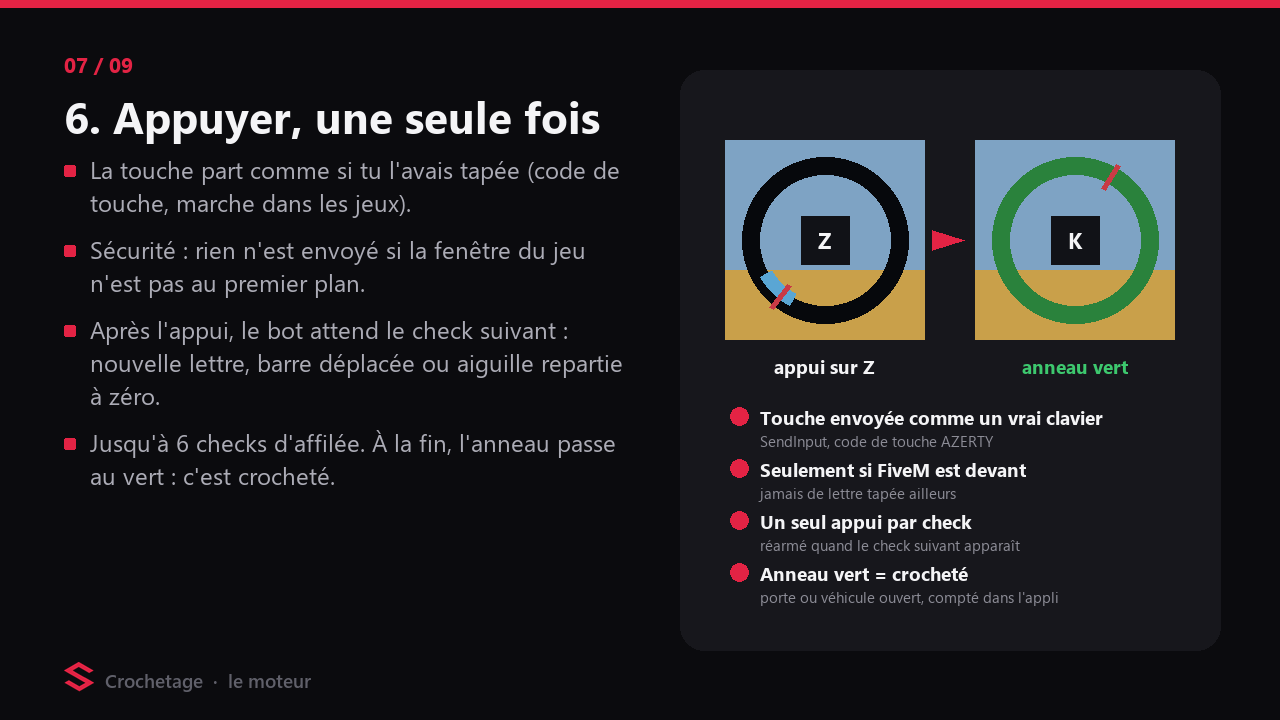
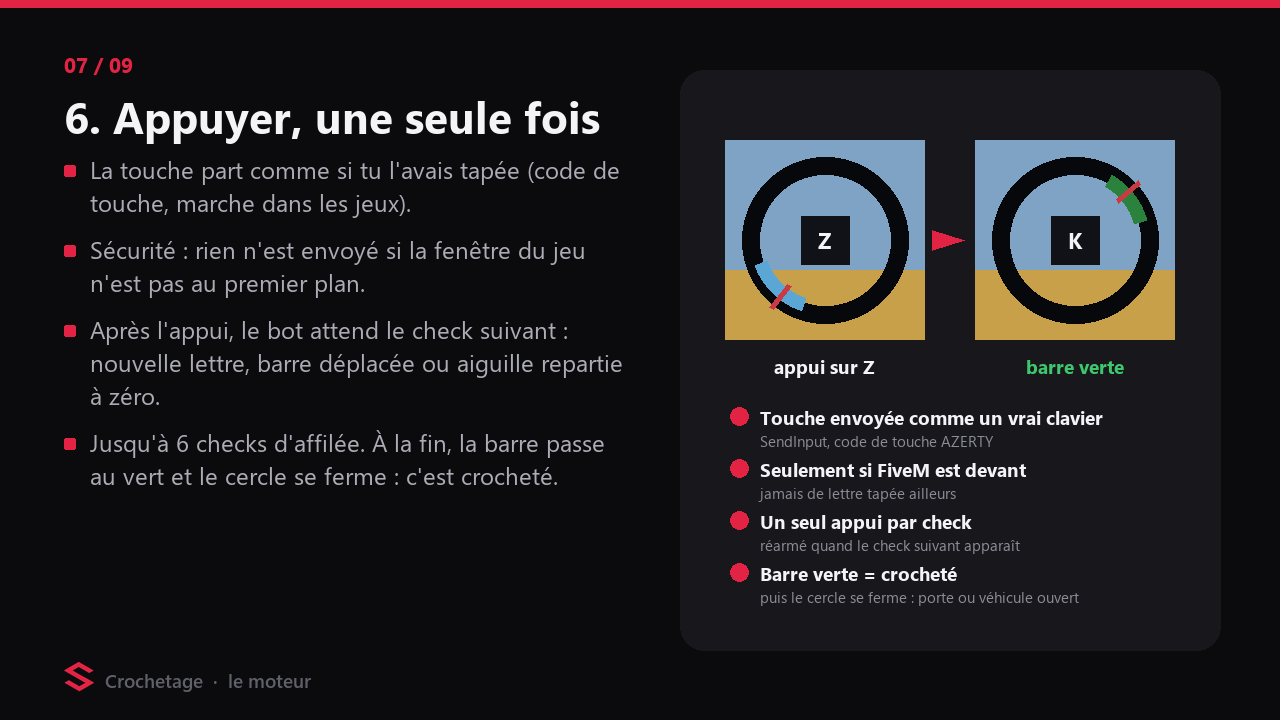
Baylife uniquement, overlay en jeu, barre verte en fin de cycle
- Le bot n'appuie que si FiveM est devant et connecté à Baylife
  (last_server_url de FiveM, réglage serveur_cible).
- Overlay en haut de l'écran quand le bot est actif en jeu : état du
  crochetage, résultat, serveur, compteurs. Jamais de focus, clics
  traversants.
- Fin de cycle comme en jeu : la barre du dernier check passe au vert
  puis le cercle se ferme.
- Nouveau check repéré même après une image sans aiguille (même lettre et
  même barre deux fois de suite).
- Simulation : option --meme-check pour ce cas piège.

diff --git a/autotouche.py b/autotouche.py
@@ -4,6 +4,7 @@ import ctypes.wintypes as wt
 import json
 import os
 import platform
+import re
 import sys
 import threading
 import time
@@ -48,9 +49,11 @@ DEFAULT_CONFIG = {
     "anneau": [0.55, 1.05],
     "anneau_auto": True,
     "fenetre_cible": None,
+    "serveur_cible": "bay.life",
     "apprentissage_auto": True,
     "journal": True,
     "captures_echec": True,
+    "overlay": True,
     "bleu_hsv": [[90, 100, 100], [130, 255, 255]],
     "rouge_hsv": [[0, 100, 90], [10, 255, 255], [168, 100, 90], [179, 255, 255]],
     "vert_hsv": [[45, 90, 90], [85, 255, 255]],
@@ -118,6 +121,31 @@ user32.GetAsyncKeyState.argtypes = (ctypes.c_int,)
 user32.GetAsyncKeyState.restype = ctypes.c_short
 user32.GetForegroundWindow.restype = wt.HWND
 user32.GetWindowTextW.argtypes = (wt.HWND, wt.LPWSTR, ctypes.c_int)
+
+
+_SERVEUR = {"t": 0.0, "url": None}
+
+
+def serveur_fivem(max_age=2.0):
+    maintenant = time.monotonic()
+    if maintenant - _SERVEUR["t"] < max_age:
+        return _SERVEUR["url"]
+    _SERVEUR["t"] = maintenant
+    chemin = os.path.join(os.environ.get("LOCALAPPDATA", ""), "FiveM", "FiveM.app", "data", "cache", "crashometry")
+    try:
+        with open(chemin, "rb") as f:
+            urls = re.findall(rb"last_server_url([!-~]+)", f.read())
+        _SERVEUR["url"] = urls[-1].decode("ascii", "replace") if urls else None
+    except OSError:
+        _SERVEUR["url"] = None
+    return _SERVEUR["url"]
+
+
+def serveur_autorise(cible):
+    if not cible:
+        return True, None
+    url = serveur_fivem()
+    return bool(url and cible.lower() in url.lower()), url
 
 
 def titre_premier_plan():
@@ -687,7 +715,6 @@ class Decideur:
             return False
 
         if barre is None:
-            self.prev = None
             return False
         centre, debut, fin, rel = barre
 
@@ -697,8 +724,9 @@ class Decideur:
             self.prev, self.prev_t = rouge, now
         else:
             dv, dt = wrap(rouge - self.prev), now - self.prev_t
-            if abs(dv) > 60 or dt > 0.25:
-                saut = self.saut = abs(dv) > 60
+            ecart = wrap(dv - (self.vit or 0.0) * dt)
+            if abs(ecart) > 60 or dt > 0.25:
+                saut = self.saut = abs(ecart) > 60
                 self.prev, self.prev_t, self.vit = rouge, now, None
             elif abs(dv) >= 0.5 and dt > 0:
                 v = dv / dt
@@ -848,6 +876,7 @@ class Suivi:
         self.j, self.log = journal, log
         self.cycle = self.check = None
         self.n_cycle = 0
+        self.dernier_cycle = None
         self.t_vu = 0.0
         self.apres_vert = False
         self.fins = []
@@ -864,7 +893,7 @@ class Suivi:
         if vert:
             if self.cycle:
                 if self.check:
-                    self._fin_check(now, "réussi" if self.check["appui"] else "vert sans appui", "anneau vert")
+                    self._fin_check(now, "réussi" if self.check["appui"] else "vert sans appui", "barre verte")
                 self._fin_cycle(now, "crocheté")
             self.apres_vert = True
             return
@@ -969,6 +998,7 @@ class Suivi:
         self.stats["crochetages_ok" if resultat == "crocheté" else
                    "crochetages_rates" if resultat == "raté" else "cycles_abandonnes"] += 1
         duree = now - cy["t0"]
+        self.dernier_cycle = {"resultat": resultat, "nb_checks": len(cy["checks"]), "t": now}
         self.j.ev("cycle_fin", cycle=cy["n"], resultat=resultat, nb_checks=len(cy["checks"]),
                   checks=cy["checks"], duree_ms=round(duree * 1000, 1))
         if resultat == "crocheté":
@@ -1057,6 +1087,7 @@ class Moteur:
         self.cercle = False
         self.nb_appuis = self.nb_reussis = 0
         self.nb_crochetages = self.nb_rates = 0
+        self.jeu_devant, self.serveur_ok, self.serveur_url = False, True, None
         self.dernier = ""
         self.version_config = 0
         self.an = None
@@ -1179,6 +1210,8 @@ class Moteur:
             self.log(f"touche_fixe '{fixe}' inconnue")
             return 1
         cible = cfg.get("fenetre_cible")
+        serveur_cible = (cfg.get("serveur_cible") or "").strip() or None
+        t_etat = 0.0
         seuil = float(cfg["seuil"])
         appui_ms = float(cfg["appui_ms"])
         pause_s = float(cfg["pause_boucle_ms"]) / 1000.0
@@ -1207,6 +1240,11 @@ class Moteur:
             dernier, an_prec, inconnue = None, None, False
             try:
                 while not self.stop:
+                    if time.monotonic() - t_etat >= 0.5:
+                        t_etat = time.monotonic()
+                        titre_fg = titre_premier_plan() if cible else ""
+                        self.jeu_devant = not cible or cible.lower() in titre_fg.lower()
+                        self.serveur_ok, self.serveur_url = serveur_autorise(serveur_cible)
                     rc = self.raccourcis
                     if rc and self.touche_quitter and rac.appui(vk_quit):
                         self.log("Bye.")
@@ -1291,10 +1329,15 @@ class Moteur:
                     fins = self.suivi.fins if nouvelle else []
                     if decide:
                         titre = titre_premier_plan() if cible else ""
+                        serveur_ok, url = serveur_autorise(serveur_cible)
                         if cible and cible.lower() not in titre.lower():
                             self.log(f"{nom} PAS envoyé : fenêtre active « {titre[:40]} » (attendu « {cible} »)")
                             self.suivi.appui(maintenant, nom, score, False, self.dec.info,
                                              raison=f"fenêtre active « {titre[:60]} »")
+                        elif not serveur_ok:
+                            self.log(f"{nom} PAS envoyé : serveur « {url or 'inconnu'} » (attendu « {serveur_cible} »)")
+                            self.suivi.appui(maintenant, nom, score, False, self.dec.info,
+                                             raison=f"serveur « {url or 'inconnu'} »")
                         else:
                             appuyer(vkn, appui_ms)
                             self.nb_appuis += 1

diff --git a/simulation.py b/simulation.py
@@ -28,7 +28,7 @@ DIFFICULTES = {
     "dur": (18, 30, 540),
 }
 NB_CHECKS = {"vehicule": (4, 6), "porte": (3, 5)}
-BLEU, ROUGE, ANNEAU, VERT_ANNEAU = "#5aa6d4", "#c93a45", "#06080c", "#2A823C"
+BLEU, ROUGE, ANNEAU, VERT_BARRE = "#5aa6d4", "#c93a45", "#06080c", "#2A823C"
 VERT_TXT, ROUGE_TXT, ACCENT = "#3ddc84", "#ff5a5a", "#E32344"
 ORANGE = "#ff9f1a"
 
@@ -82,7 +82,7 @@ class Simulation:
         root.bind("<KeyPress>", self.clavier)
         root.protocol("WM_DELETE_WINDOW", self.quitter)
         self.j.ev("sim_debut", args=vars(args), ecran=[W, H], k=round(k, 4), centre=[self.cx, self.cy],
-                  couleurs={"bleu": BLEU, "rouge": ROUGE, "anneau": ANNEAU, "vert_anneau": VERT_ANNEAU},
+                  couleurs={"bleu": BLEU, "rouge": ROUGE, "anneau": ANNEAU, "vert_barre": VERT_BARRE},
                   difficultes=DIFFICULTES, version=at.VERSION)
 
     def _overlays_scene(self):
@@ -304,7 +304,15 @@ class Simulation:
         lo, hi = NB_CHECKS[nom]
         nb = self.args.nb or random.randint(lo, hi)
         self.n_cycle += 1
-        self.seq = [self.nouveau_check() for _ in range(nb)]
+        self.seq = []
+        for _ in range(nb):
+            if self.seq and random.random() < self.args.meme_check:
+                p = dict(self.seq[-1])
+                d = random.uniform(-1.5, 1.5)
+                p["debut"], p["fin"] = p["debut"] + d, p["fin"] + d
+                self.seq.append(p)
+            else:
+                self.seq.append(self.nouveau_check())
         self.i = 0
         self.cycle = {"n": self.n_cycle, "type": nom, "t0": time.perf_counter(), "titre": self.info["titre"]}
         self.message("")
@@ -360,9 +368,9 @@ class Simulation:
             self.lancer_check()
 
     def fin_cycle_reussi(self):
-        self.c.itemconfigure(self.anneau, outline=VERT_ANNEAU)
-        self.c.itemconfigure(self.barre, state="hidden")
-        self.etat, self.t_suivant = "vert", time.perf_counter() + 0.7
+        ck = self.ck
+        self.placer_barre(ck["debut"], ck["fin"], VERT_BARRE)
+        self.etat, self.t_suivant = "vert", time.perf_counter() + 0.25
         self.stats["cycles_ok"] += 1
         self.stats["cycles"] += 1
         quoi = "Véhicule déverrouillé" if self.type_scene == "vehicule" else "Porte déverrouillée"
@@ -486,8 +494,6 @@ class Simulation:
         elif maintenant >= self.t_suivant:
             if self.etat == "vert":
                 self.montrer(False)
-                self.c.itemconfigure(self.barre, state="normal")
-                self.c.itemconfigure(self.anneau, outline=ANNEAU)
                 self.message("")
                 self.etat, self.t_suivant = "attente", maintenant + self.args.pause_fin + random.uniform(0.2, 1.0)
                 self.maj_progression()
@@ -555,6 +561,7 @@ class Simulation:
         if nouveau:
             cfg["latence_ms"] = 8
         cfg["fenetre_cible"] = TITRE
+        cfg["serveur_cible"] = None
 
         self.c.itemconfigure(self.lettre, text="Z")
         self.placer_barre(200, 245)
@@ -660,6 +667,8 @@ def main(argv=None):
     p.add_argument("--vitesse", type=float, default=1.0, help="multiplie la vitesse de l'aiguille")
     p.add_argument("--taille", type=int, default=0, help="diamètre du cercle en pixels (défaut : comme le jeu)")
     p.add_argument("--lettres", default="AZERTYQSDFGHWXCVBNKLMPUIOJ", help="lettres possibles")
+    p.add_argument("--meme-check", type=float, default=0.0,
+                   help="probabilité qu'un check reprenne la lettre et la barre du précédent (cas piège)")
     p.add_argument("--nb", type=int, default=0, help="checks par cycle (0 = au hasard : 4-6 véhicule, 3-5 porte)")
     p.add_argument("--pause-fin", type=float, default=1.2, help="pause entre 2 crochetages (s)")
     p.add_argument("--duree", type=float, default=0, help="quitte tout seul après N secondes")

diff --git a/rapport.py b/rapport.py
@@ -340,7 +340,7 @@ def generer(stamp=None, jeu=False):
     if r["accord"]:
         L.append("## Le bot sait-il s'il a réussi ?")
         L.append("")
-        L.append("Le bot déduit l'issue tout seul (check suivant apparu, anneau vert, cercle disparu). "
+        L.append("Le bot déduit l'issue tout seul (check suivant apparu, barre verte, cercle disparu). "
                  "Comparaison avec la vérité, crochetage par crochetage :")
         L.append("")
         for k, v in r["accord"].most_common():

diff --git a/README.md b/README.md
@@ -12,7 +12,7 @@
 **Crochetage** joue tout seul le mini-jeu de crochetage de FiveM : portes, véhicules. Un cercle apparaît au
 milieu de l'écran avec une lettre au centre, une barre bleue et une aiguille rouge qui tourne. Dès que
 l'aiguille arrive dans la barre, l'appli appuie sur la bonne lettre. Elle enchaîne les checks (jusqu'à 6,
-barre de taille différente à chaque fois) jusqu'à ce que l'anneau passe au vert : c'est crocheté.
+barre de taille différente à chaque fois). À la fin, la barre passe au vert et le cercle se ferme : c'est crocheté.
 
 <table>
   <tr>
@@ -77,7 +77,7 @@ flowchart LR
     D -->|"pas encore"| A
     E --> F{"check suivant ?"}
     F -->|"oui : réussi"| A
-    F -->|"anneau vert"| G["🔓 Crocheté"]
+    F -->|"barre verte"| G["🔓 Crocheté"]
     F -->|"cercle disparu"| H["❌ Raté"]
 ```
 
@@ -146,28 +146,45 @@ image de plus.
   lettre, barre déplacée, aiguille repartie de zéro).
 
 ### 6. Savoir si c'est réussi
-Dans le jeu, l'anneau ne passe au vert (`#2A823C`) **qu'à la fin**, quand l'objet est crocheté. Le bot
-déduit donc l'issue tout seul :
+Dans le jeu, rien ne passe au vert entre deux checks. À la fin, seule la **barre du dernier check** passe au
+vert (`#2A823C`), puis le cercle se ferme aussitôt : l'objet est crocheté. Le bot déduit donc l'issue tout
+seul :
 
 | Ce qu'il voit après un appui | Ce qu'il en conclut |
 |---|---|
 | le check suivant apparaît | check réussi |
-| l'anneau passe au vert | crocheté (porte, véhicule ouvert) |
+| la barre passe au vert, puis le cercle se ferme | crocheté (porte, véhicule ouvert) |
 | le cercle disparaît sans vert | raté |
 
-Pendant que l'anneau est vert, le bot n'appuie jamais.
+Pendant que la barre est verte, le bot n'appuie jamais.
 
-### 7. Apprendre les lettres
+### 7. Seulement sur Baylife
+Le bot n'appuie que si **FiveM est au premier plan** et que tu es **connecté à Baylife**
+(`fivem://connect/9zj5ay`, `https://gta.bay.life`). FiveM note le dernier serveur rejoint dans
+`%LOCALAPPDATA%\FiveM\FiveM.app\data\cache\crashometry` (`last_server_url`) : le bot le relit avant chaque
+appui. Sur un autre serveur, il reste en veille et le note dans le journal (« PAS envoyé : serveur … »).
+Réglage `serveur_cible` dans `config.json` (`bay.life` par défaut, vide = tous les serveurs).
+
+### 8. L'overlay en jeu
+Dès que le bot est actif et que FiveM est devant, un bandeau s'affiche en haut de l'écran : prêt, crochetage
+en cours (numéro du check), crocheté ou raté, serveur, compteurs. Il ne prend jamais le focus, laisse passer
+les clics et se cache dès que le bot est en pause ou que tu quittes le jeu. Réglage `overlay` dans
+`config.json`.
+
+<p align="center"><img src="docs/overlay.png" alt="L'overlay en jeu" width="380"></p>
+
+### 9. Apprendre les lettres
 - **Tout seul** : sur une lettre inconnue, tu la joues toi-même. Si le check suivant apparaît (ou si
-  l'anneau passe au vert), le bot enregistre l'image comme modèle.
+  la barre passe au vert), le bot enregistre l'image comme modèle.
 - Ou **F8** puis la lettre, ou bien en tapant la lettre dans l'appli (« à nommer »).
 
 ### Résultats des tests
 | Test | Résultat |
 |---|---|
-| Simulation de vol de véhicule et de porte (trafic, gyrophares, pluie), 4 min | **47 / 47** crochetages, **221 / 221** checks, 0 appui en trop |
+| Simulation de vol de véhicule et de porte (trafic, gyrophares, pluie), 4 min | **51 / 51** crochetages, **240 / 240** checks, 0 appui en trop |
+| Cas piège : même lettre et même barre deux fois de suite | **45 / 45** checks |
 | Où tombe l'appui dans la barre (cible 35 %) | **34 % ± 3 %** |
-| Le bot sait-il s'il a réussi ? | d'accord avec la vérité sur **47 / 47** crochetages |
+| Le bot sait-il s'il a réussi ? | d'accord avec la vérité sur **51 / 51** crochetages |
 | Détection du cercle sur 200 scènes générées (nuit, voitures bleues/rouges collées) | **192 / 200**, centre à < 1 px |
 | Vraie capture du jeu | cercle, barre et aiguille trouvés au pixel près |
 
@@ -226,8 +243,8 @@ Clic droit : Activer, Détecter, Simulation, Quitter.
 ## 🧪 La simulation
 **`2_Simulation.bat`** ouvre un crochetage d'entraînement en **plein écran**, façon serveur RP : de nuit,
 sous la pluie, tu voles une berline garée ou tu crochètes une porte d'entrée. Le mini-jeu est copié sur
-le vrai (mêmes tailles et couleurs) : 3 à 6 checks d'affilée, barre de taille variable, anneau vert à la
-fin. Autour : trafic dont les feux rouges passent derrière le cercle, patrouilles de police avec
+le vrai (mêmes tailles et couleurs) : 3 à 6 checks d'affilée, barre de taille variable, barre verte à la
+fin, puis le cercle se ferme. Autour : trafic dont les feux rouges passent derrière le cercle, patrouilles de police avec
 gyrophares rouge / bleu, alarme du véhicule sur un raté, HUD de serveur RP (mini-carte, argent, jauges,
 alerte police).
 
@@ -235,8 +252,8 @@ alerte police).
 
 | | |
 |---|---|
-| <img src="docs/simulation_porte.png" alt="Crochetage d'une porte" width="100%"> | <img src="docs/simulation_crochete.png" alt="Anneau vert : véhicule déverrouillé" width="100%"> |
-| <sub>Crochetage d'une porte</sub> | <sub>Fin du cycle : l'anneau passe au vert</sub> |
+| <img src="docs/simulation_porte.png" alt="Crochetage d'une porte" width="100%"> | <img src="docs/simulation_crochete.png" alt="Barre verte : véhicule déverrouillé" width="100%"> |
+| <sub>Crochetage d'une porte</sub> | <sub>Fin du cycle : la barre passe au vert, puis le cercle se ferme</sub> |
 
 Le bot de la simulation trouve le cercle et apprend les lettres tout seul. **F6** = bot ON/OFF (pour
 jouer toi-même), **Échap** = quitter ; le rapport est généré à la fermeture.
@@ -259,10 +276,12 @@ python simulation.py --duree 300         # s'arrête tout seul après 5 min
 | **Fenêtre du jeu** | Texte que doit contenir le titre de la fenêtre (par défaut « FiveM »). |
 | **Démarrer avec Windows** | Lance l'appli à l'ouverture de session. |
 
-Dans `config.json` : `capture` (`auto` par défaut, `dxgi` ou `mss`), `journal` (journal détaillé, oui par
-défaut) et `captures_echec` (images des ratés, oui par défaut).
+Dans `config.json` : `serveur_cible` (`bay.life` par défaut, vide = tous les serveurs), `overlay` (oui par
+défaut), `capture` (`auto` par défaut, `dxgi` ou `mss`), `journal` (journal détaillé, oui par défaut) et
+`captures_echec` (images des ratés, oui par défaut).
 
 - **« Cercle pas trouvé »** : refais F7 pendant que l'aiguille tourne.
+- **« PAS envoyé : serveur … »** : tu n'es pas connecté à Baylife (ou FiveM n'a pas encore noté le serveur).
 - **« PAS envoyé : fenêtre active … »** : le jeu n'était pas devant, ou son titre ne contient pas
   « FiveM ». Corrige « Fenêtre du jeu ».
 - **Touche ignorée par le jeu** : lance l'appli en administrateur.
